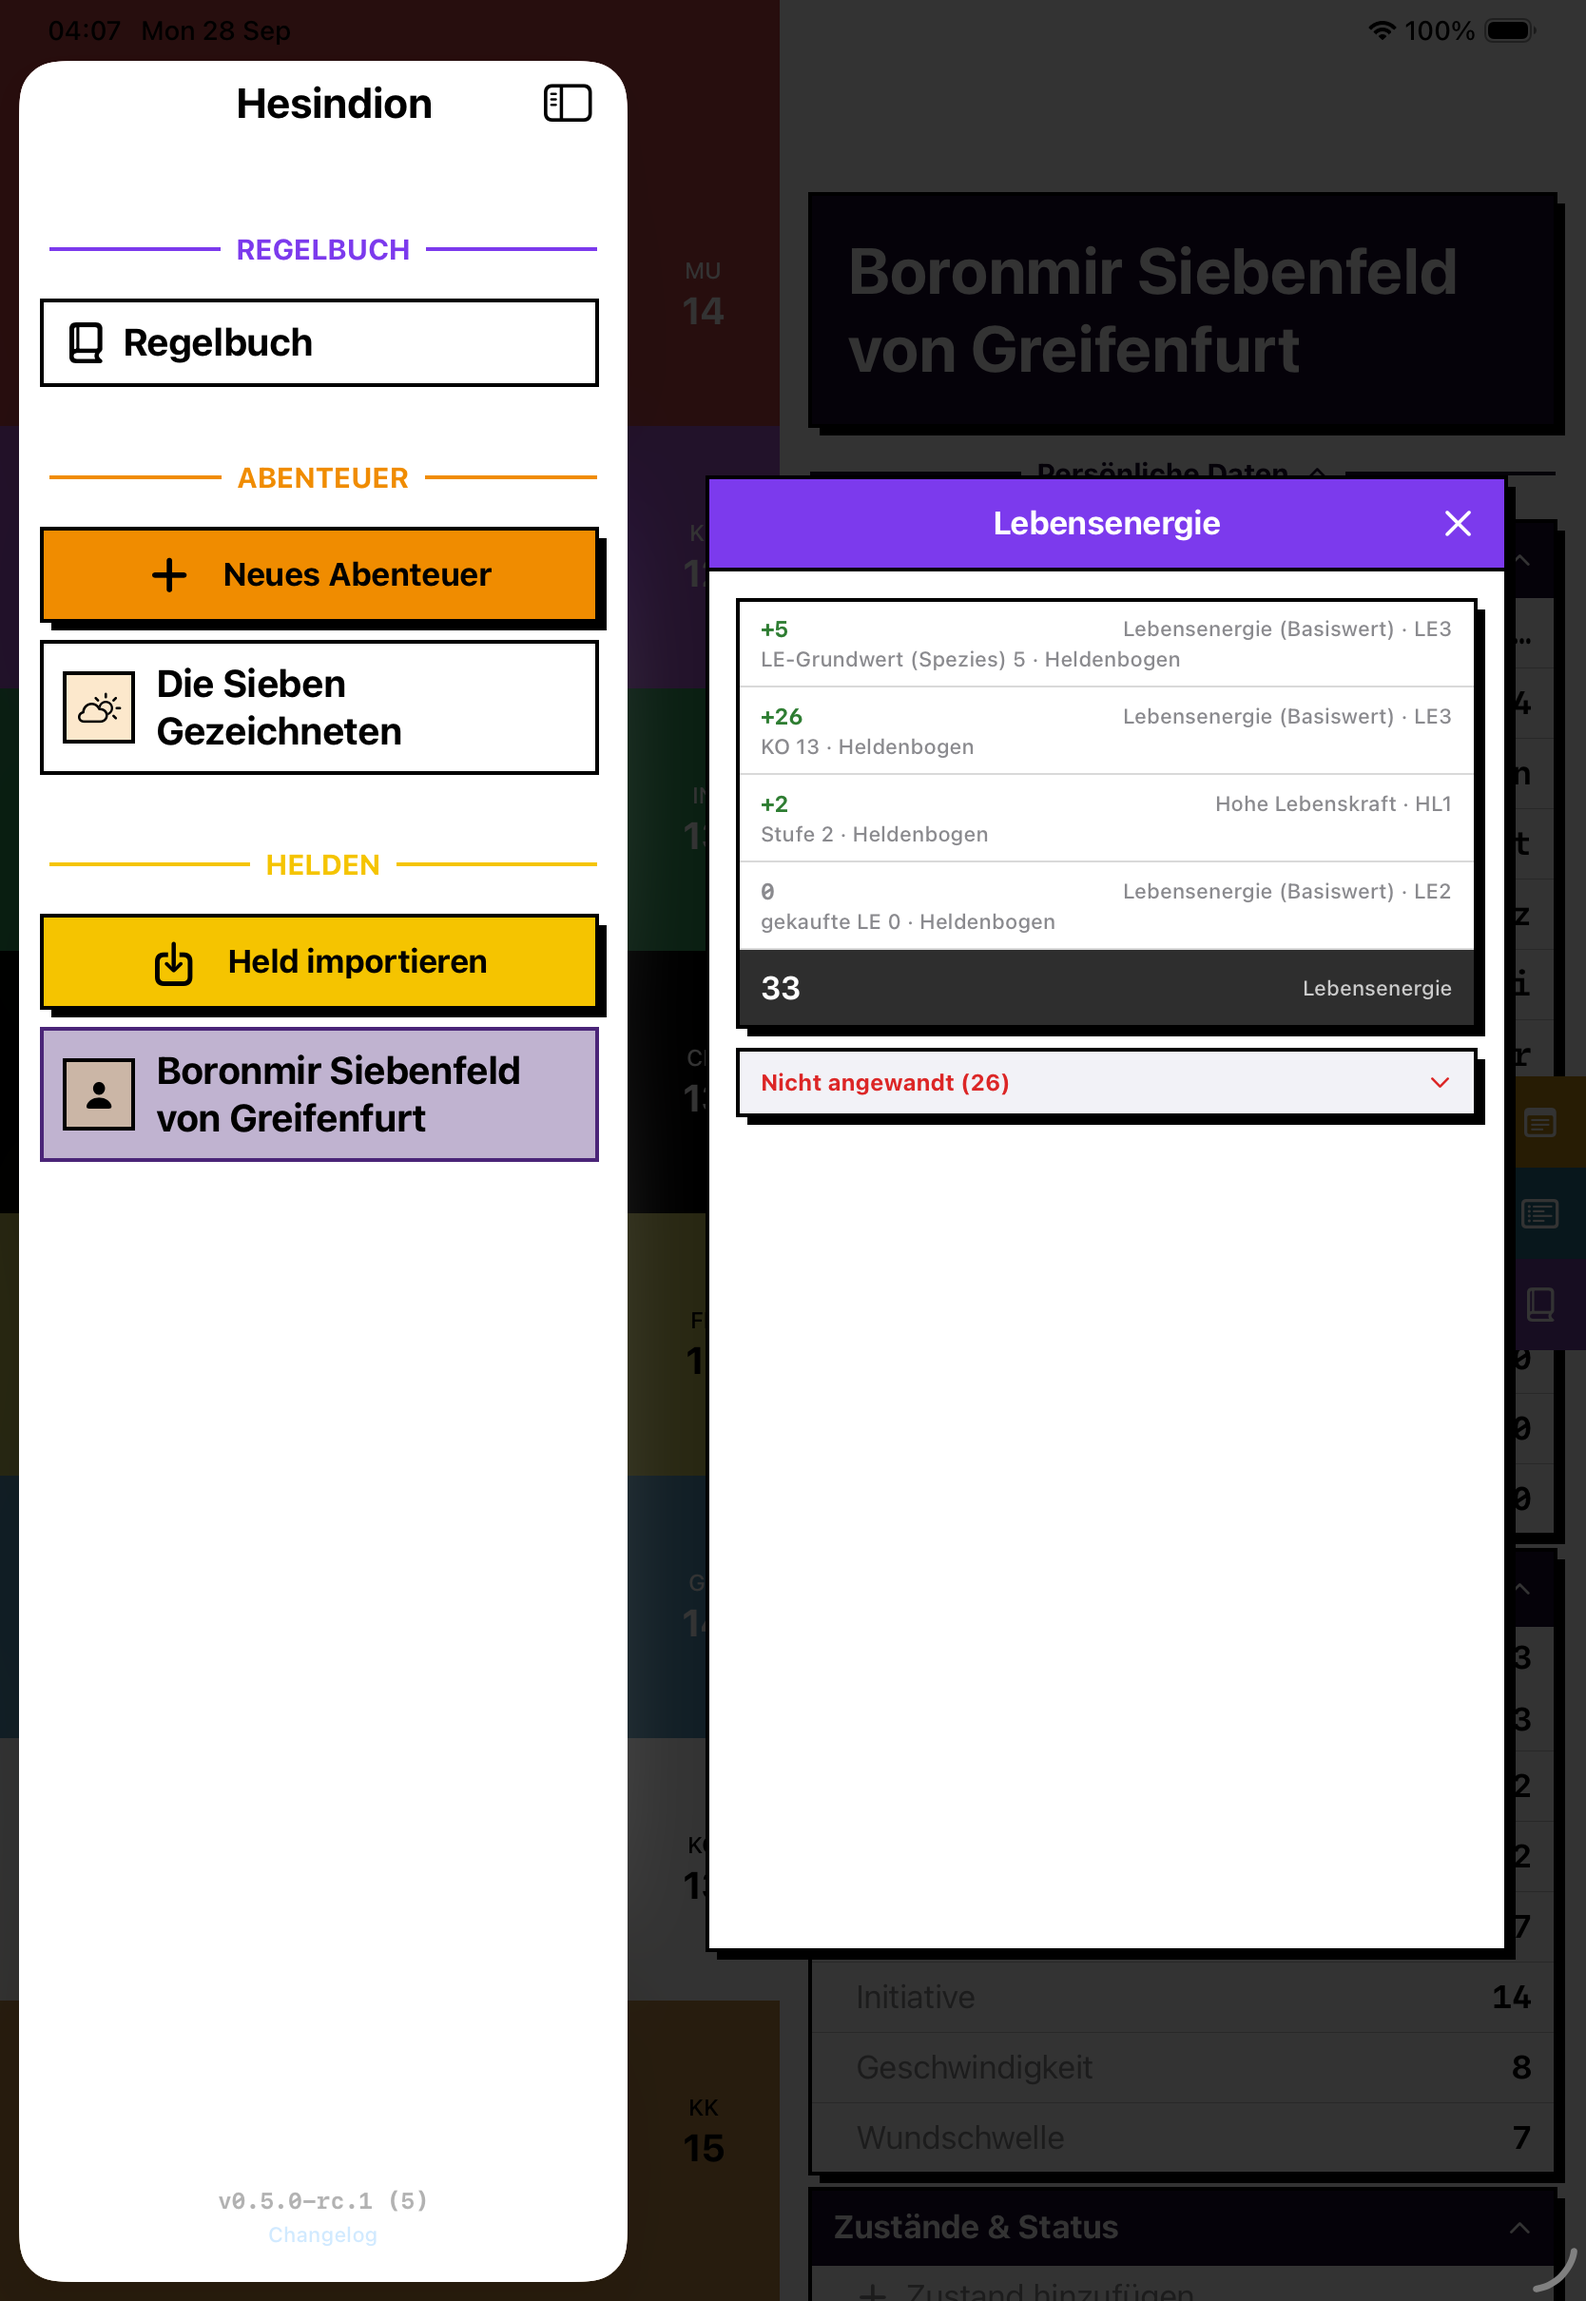
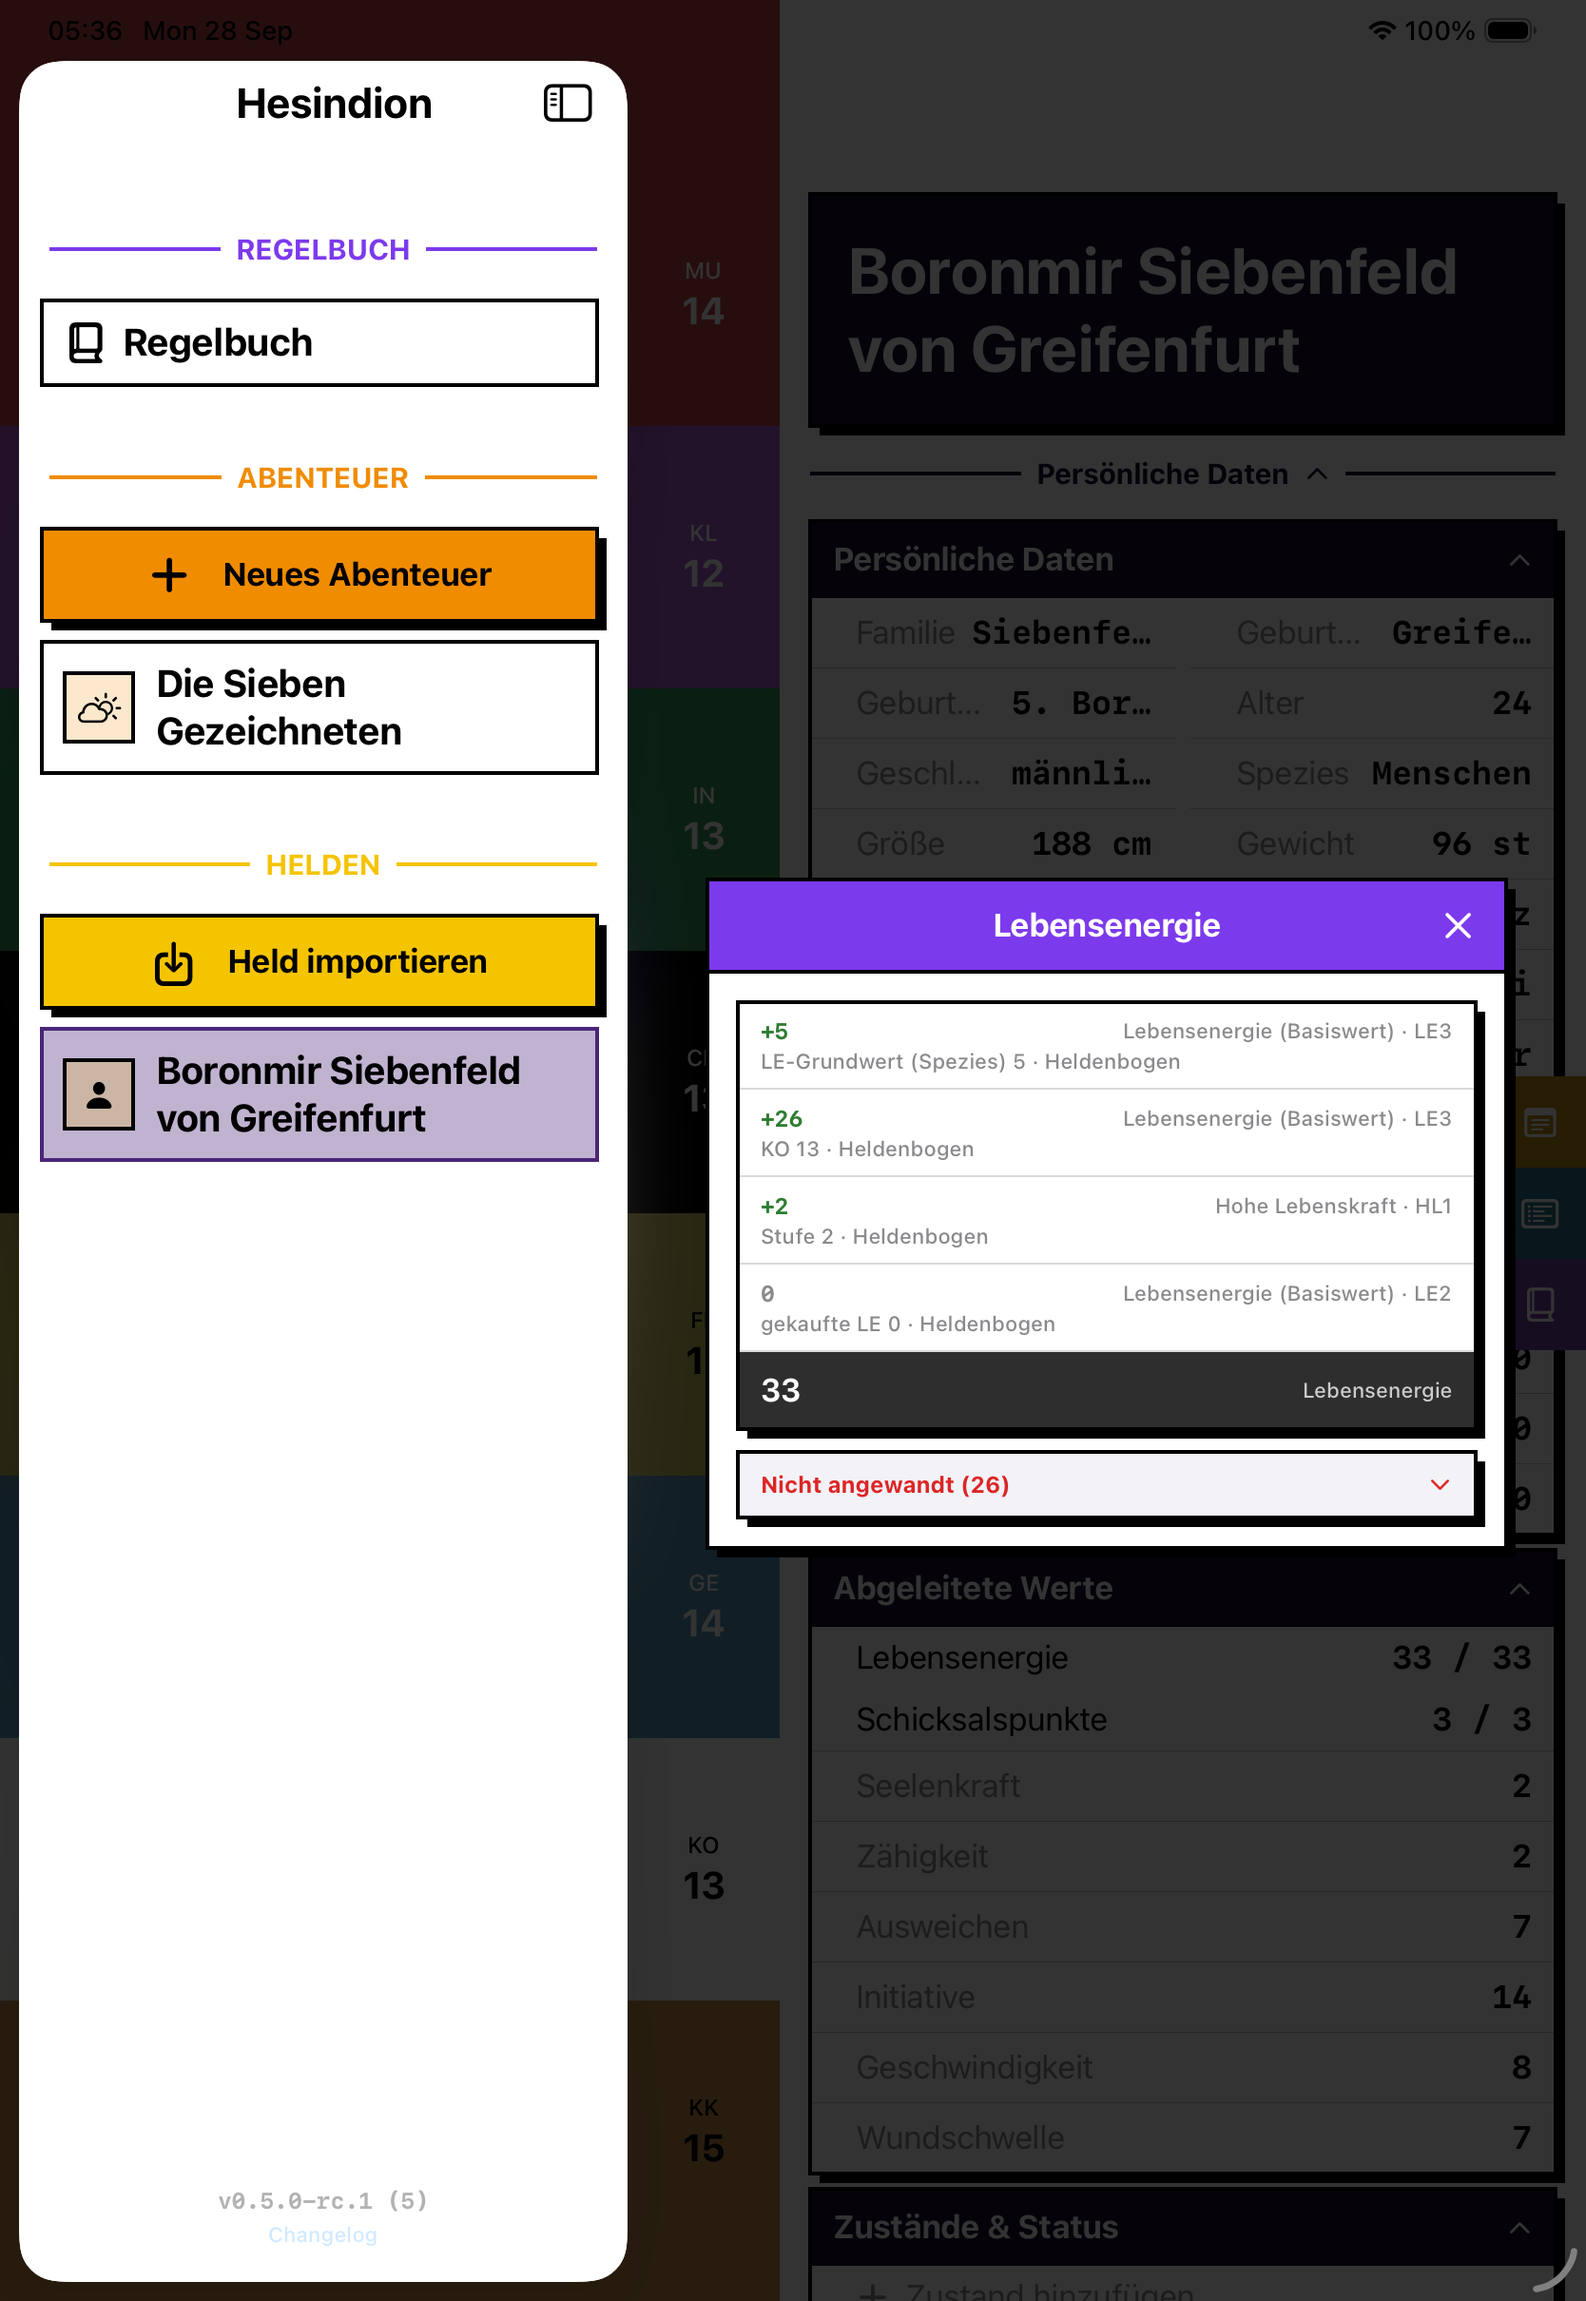
fix(ui): the scrolling modal panel is exactly as tall as short content
The fits branch used .frame(maxHeight: cap), which is flexible up to its
max. The scrim's full-screen ZStack offered all the height it could, so the
panel always filled to the cap. The content now reports its ideal height
(fixedSize, vertical) and the panel gets that height, capped. A UI test now
checks the hug numerically (the panel's bottom is within 40 pt of the last
row), then checks the cap and that the expanded content scrolls.

Claude-Session: https://claude.ai/code/session_01M63zFFmobsebV8gSuD14ea

Changed region(s): [[0.4365, 0.186, 0.9664, 0.8678]]

diff --git a/Hesindion/Theme/DSAModal.swift b/Hesindion/Theme/DSAModal.swift
@@ -47,6 +47,10 @@ struct DSAModal<Content: View>: View {
             content
         }
         .padding(16)
+        // Report the content's *ideal* height, not the space it was offered: without
+        // this, whatever height the parent proposes (the full-screen scrim's ZStack
+        // proposes all of it) is what gets measured and filled.
+        .fixedSize(horizontal: false, vertical: true)
         .onGeometryChange(for: CGFloat.self, of: { $0.size.height }) { newHeight in
             scrollableContentHeight = newHeight
         }
@@ -67,17 +71,20 @@ struct DSAModal<Content: View>: View {
                         ScrollView { measuredContent }
                             .frame(height: cap)
                     } else {
-                        // The safety cap here is a no-op once `scrollableContentHeight`
-                        // has settled (it's already `<= cap`, by the branch condition);
-                        // it only clips the rare single frame right after content has
-                        // just grown past the cap but the measurement above hasn't
-                        // caught up yet, so the panel never visibly overshoots the
-                        // screen even for that one frame. `alignment: .top` matters:
-                        // `.frame(maxHeight:)` centres oversized content by default, so
-                        // without it that one frame shows a clipped *middle* slice
-                        // instead of the top.
+                        // A definite height — the content's own, measured above — so the
+                        // panel hugs it. (Not `.frame(maxHeight: cap)`, which this used to
+                        // be: a max-only frame is flexible up to its max, and
+                        // the scrim's ZStack proposes the whole screen, so the panel always
+                        // filled to `cap` however short the content.) `min(_, cap)` clips
+                        // the rare single frame right after content has grown past the cap
+                        // but before the branch above has switched; `alignment: .top` makes
+                        // that clip show the top, not a middle slice. Before the first
+                        // measurement (0) the height is left to the fixed-size content itself.
                         measuredContent
-                            .frame(maxHeight: cap, alignment: .top)
+                            .frame(
+                                height: scrollableContentHeight > 0 ? min(scrollableContentHeight, cap) : nil,
+                                alignment: .top
+                            )
                             .clipped()
                     }
                 } else {
@@ -90,6 +97,11 @@ struct DSAModal<Content: View>: View {
             .frame(maxWidth: 420)
             .background(Color(UIColor.systemBackground))
             .dsaBox(.raised)
+            // The panel as one container, so a UI test can read its frame (the hug check
+            // in `SheetBreakdownTests`); `.contain` keeps every control inside it
+            // individually reachable, exactly as before.
+            .accessibilityElement(children: .contain)
+            .accessibilityIdentifier("modal.panel")
             .padding(24)
         }
     }

diff --git a/HesindionUITests/SheetBreakdownTests.swift b/HesindionUITests/SheetBreakdownTests.swift
@@ -43,13 +43,14 @@ final class SheetBreakdownTests: XCTestCase {
         )
     }
 
-    /// Fix round 1: `DSAModal`'s `scrolls` panel used to always claim its height cap, so
-    /// expanding "Nicht angewandt" — which grows the LE breakdown well past it — must
-    /// still fit the screen (the close button stays reachable) and let the fold's last
-    /// row be scrolled to, rather than the panel silently overflowing or the switch to
-    /// a scrolling layout losing the fold's own open/closed state.
+    /// Fix rounds 1 and 2: `DSAModal`'s `scrolls` panel is exactly as tall as its content
+    /// while that fits — its bottom edge sits right under the collapsed "Nicht angewandt"
+    /// fold, the last thing in it, like the dice modal — and once expanding the fold grows
+    /// the content past the cap, the panel stops at the cap (the close button stays
+    /// reachable) and the fold's last row can be scrolled to, without the switch to a
+    /// scrolling layout losing the fold's own open/closed state.
     @MainActor
-    func testExpandingNotAppliedFitsTheScreenAndScrollsToTheLastRow() throws {
+    func testThePanelHugsShortContentAndCapsAndScrollsLongContent() throws {
         continueAfterFailure = false
         let app = UITest.launch()
 
@@ -59,6 +60,18 @@ final class SheetBreakdownTests: XCTestCase {
 
         let toggle = app.buttons["breakdown.notApplied.toggle"]
         XCTAssertTrue(toggle.waitForExistence(timeout: UITest.timeout), "The Nicht-angewandt fold is missing")
+        let panel = app.otherElements["modal.panel"]
+        XCTAssertTrue(panel.waitForExistence(timeout: UITest.timeout), "The modal panel has no identifier")
+
+        // Hug: the collapsed fold is the content's last row; below it only the content's
+        // own 16pt padding (and the box's border) may remain, not the rest of the cap.
+        let gap = panel.frame.maxY - toggle.frame.maxY
+        XCTAssertLessThanOrEqual(
+            gap, 40,
+            "The panel does not hug its content: its bottom is \(gap)pt below the last row "
+                + "(panel \(panel.frame), fold \(toggle.frame))"
+        )
+
         toggle.tap()
 
         let close = app.buttons["modal.close"]
@@ -72,6 +85,15 @@ final class SheetBreakdownTests: XCTestCase {
             Thread.sleep(forTimeInterval: 0.1)
         }
         XCTAssertTrue(closeReachable, "The close button is not reachable once the fold is expanded")
+
+        // Cap: `DSAModal` caps the content at 60% of the screen; the header (≈50pt) and
+        // the box's border come on top of that.
+        let cap = app.windows.firstMatch.frame.height * 0.6
+        let headerAllowance: CGFloat = 70
+        XCTAssertLessThanOrEqual(
+            panel.frame.height, cap + headerAllowance,
+            "The expanded panel exceeds its cap: \(panel.frame.height)pt > \(cap) + \(headerAllowance)"
+        )
 
         // The fold's own content, not the hero sheet behind it — `scrollUntilHittable`
         // would find that one instead, since it is the wider scroll view on screen.
